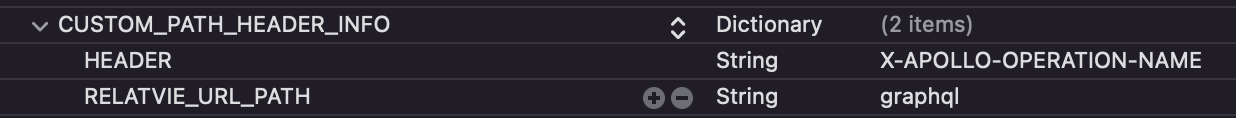
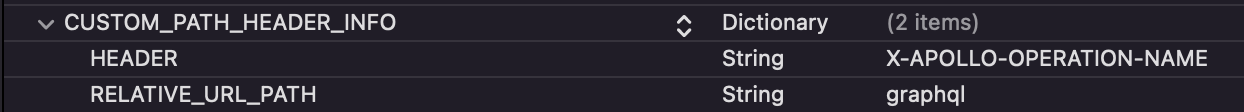
fixed typo in feature key

diff --git a/content/ios/faq.md b/content/ios/faq.md
@@ -168,7 +168,7 @@ Yes there is, you can set a value in the Embrace-Info.plist in your main bundle 
 
 The above example is for Apollo's GraphQL implementation. As you can see there are two Keys:
 1. HEADER - This is a required key and its value is the name of the http header that is used to generate the relative URL paths
-2. RELATVIE_URL_PATH - This is an optional key and when specified will be used as the begining value of all generated url paths seen on the dash.
+2. RELATIVE_URL_PATH - This is an optional key and when specified will be used as the begining value of all generated url paths seen on the dash.
 
 The the format for the above example will be this
 ``` 
